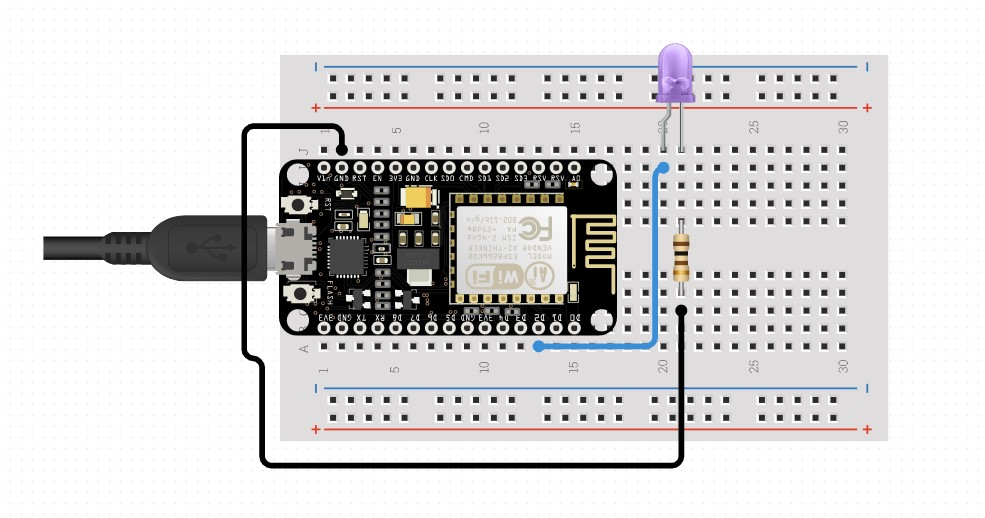
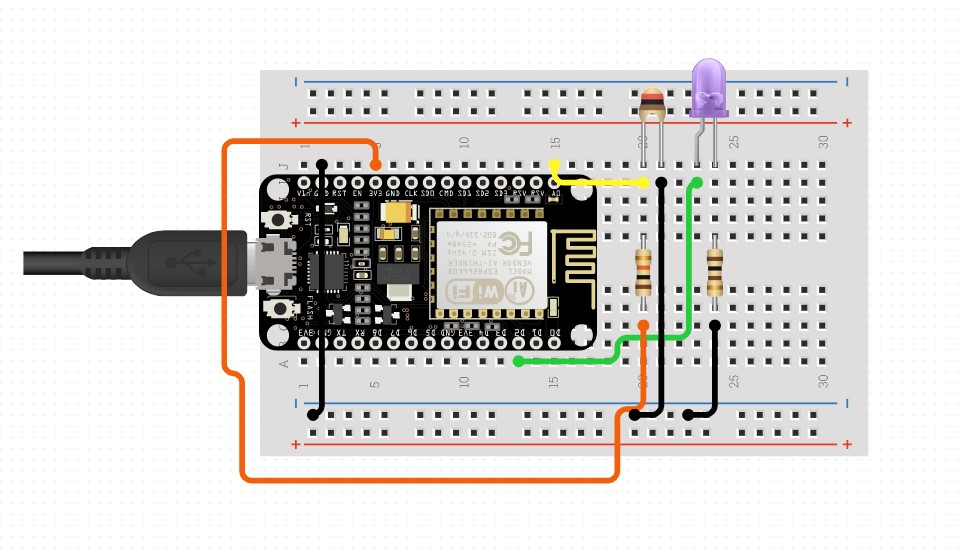
readme updated to temp sensor

Changed region(s): [[0.1551, 0.0618, 0.8997, 0.9266], [0.0, 0.4324, 0.1551, 0.5251]]

diff --git a/README.md b/README.md
@@ -9,8 +9,10 @@ Right now the project:
 - Control any AC unit.
 - Reupload the code remotely.
 - if cannot connect to the wifi it open AP at `address = 192.168.4.22`
+- send temperature to the client
 
 # How to use
+
 ## schematic
 
 ![schematic](https://github.com/ishay320/esp8266_IRremote/blob/main/data/schematics.jpg)
@@ -24,7 +26,7 @@ const char* password = "pass";
 
 to your wifi.
 
-if you wish to connect the LED to different pin its in:
+if you wish to connect the IR LED to different pin its in:
 
 ```C
 const uint16_t kIrLed = 4;
@@ -48,3 +50,5 @@ in order to change the html files, change them in `html_files` folder and then r
 - full OTA support via arduinoIDE
 - python script that makes html files to .h
 - if cannot connect to the wifi it open AP at `address = 192.168.4.22`
+- temperature sensor (analog)
+- Reconfigure the WIFI on the fly - (but not save...)
